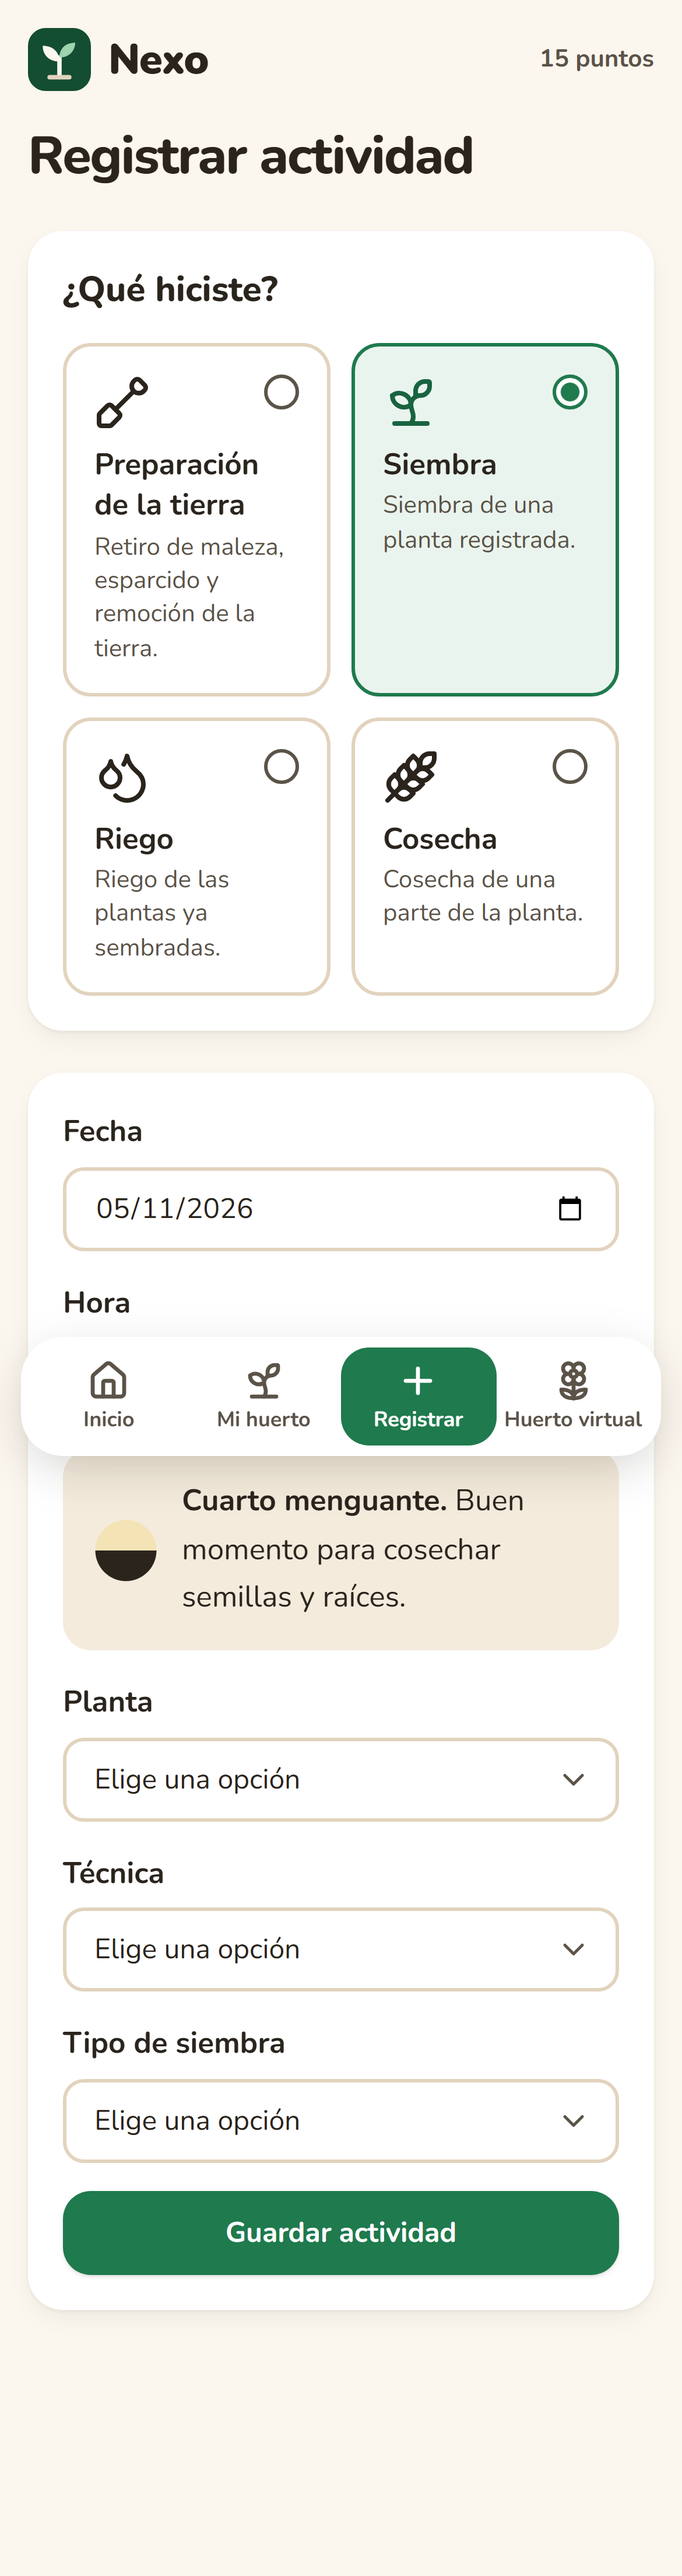
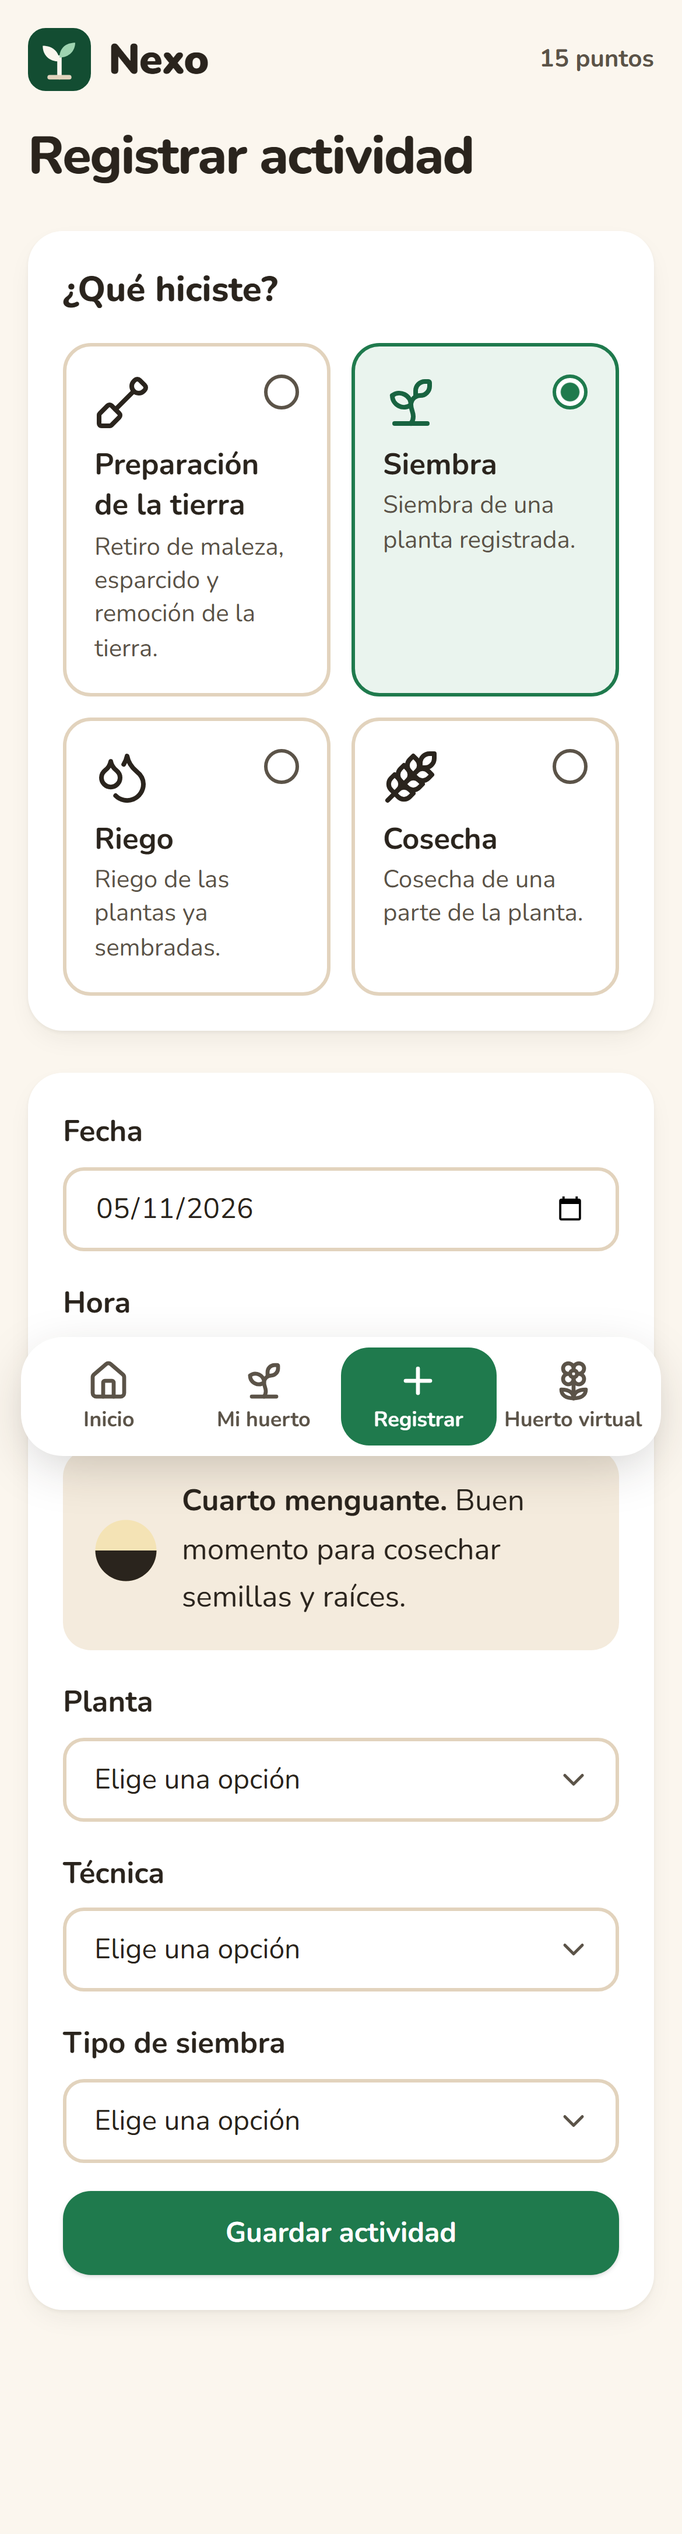
fix(frontend): muestra el cambio de etapa al brotar y agranda la línea del bono

diff --git a/apps/frontend/src/pages/HuertoVirtual.tsx b/apps/frontend/src/pages/HuertoVirtual.tsx
@@ -1,5 +1,5 @@
 import type { Etapa } from '@nexo/shared';
-import { useState } from 'react';
+import { useEffect, useState } from 'react';
 import { useLocation } from 'react-router';
 import { useDatos, type HuertoMio } from '../datos';
 import { useSesion } from '../sesion';
@@ -15,11 +15,18 @@ export function HuertoVirtual() {
   const { yo } = useSesion();
   // Firma: solo brota la planta recién trabajada, una vez. Se limpia el estado para que no se repita al volver.
   const loc = useLocation();
-  const [brota] = useState(() => {
-    const b = (loc.state as { brotar?: string } | null)?.brotar;
-    if (b) window.history.replaceState({ ...window.history.state, usr: null }, '');
-    return b;
+  const [{ brota, antes: antesInicial }] = useState(() => {
+    const st = loc.state as { brotar?: string; antes?: string } | null;
+    if (st?.brotar) window.history.replaceState({ ...window.history.state, usr: null }, '');
+    return { brota: st?.brotar, antes: st?.antes };
   });
+  // Se muestra un instante el dibujo de la etapa anterior y luego brota el nuevo.
+  const [antes, setAntes] = useState(antesInicial);
+  useEffect(() => {
+    if (!antes) return;
+    const t = setTimeout(() => setAntes(undefined), 600);
+    return () => clearTimeout(t);
+  }, [antes]);
   const mio = useDatos<HuertoMio>(yo?.comunidad ? '/huertos/mio' : null);
   const id = mio.datos?.huerto?.id;
   const v = useDatos<Virtual>(id ? `/huertos/${id}/virtual` : null);
@@ -51,12 +58,16 @@ export function HuertoVirtual() {
           <ul className="grid grid-cols-2 gap-3 sm:gap-4 lg:grid-cols-4">
             {v.datos.plantas.map((p) => (
               <li key={p.plantaId} className="flex flex-col items-center rounded-tarjeta bg-white p-3 text-center shadow-tarjeta">
-                <img
-                  key={p.etapa.recurso}
-                  src={`/etapas/${p.etapa.recurso}`}
-                  alt=""
-                  className={`aspect-square w-full max-w-36 ${brota === '*' || brota === p.plantaId ? 'brotar' : ''}`}
-                />
+                {antes && brota === p.plantaId ? (
+                  <img key="antes" src={`/etapas/${antes}`} alt="" className="aspect-square w-full max-w-36" />
+                ) : (
+                  <img
+                    key="ahora"
+                    src={`/etapas/${p.etapa.recurso}`}
+                    alt=""
+                    className={`aspect-square w-full max-w-36 ${brota === '*' || brota === p.plantaId ? 'brotar' : ''}`}
+                  />
+                )}
                 <p className="mt-2 font-bold">{p.nombreComun}</p>
                 <p className="text-sm text-luna-600">
                   Etapa {p.etapa.nivel}: {p.etapa.nombre}

diff --git a/apps/frontend/src/pages/ActividadNueva.tsx b/apps/frontend/src/pages/ActividadNueva.tsx
@@ -49,6 +49,10 @@ interface Respuesta {
 export function ActividadNueva() {
   const { yo, recargar: recargarSesion } = useSesion();
   const { datos, cargando } = useDatos<HuertoMio>(yo?.comunidad ? '/huertos/mio' : null);
+  // Dibujo de la etapa actual de cada planta, para que el huerto virtual muestre el cambio de etapa al guardar.
+  const virtual = useDatos<{ plantas: { plantaId: string; etapa: { recurso: string } }[] }>(
+    datos?.huerto ? `/huertos/${datos.huerto.id}/virtual` : null,
+  );
   const navegar = useNavigate();
   const toast = useToast();
   const { errores, setErrores, enviando, enviar, resumen } = useEnvio();
@@ -103,7 +107,8 @@ export function ActividadNueva() {
         : `Actividad guardada: +${total} puntos${r.puntos.bono ? ' (incluye bono por seguir la recomendación)' : ''}.`,
     );
     await recargarSesion();
-    navegar('/huerto/virtual', { state: { brotar: base.plantaId || '*' } });
+    const antes = virtual.datos?.plantas.find((p) => p.plantaId === base.plantaId)?.etapa.recurso;
+    navegar('/huerto/virtual', { state: { brotar: base.plantaId || '*', antes } });
   }
 
   function alEnviar(e: FormEvent) {

diff --git a/apps/frontend/src/pages/Inicio.tsx b/apps/frontend/src/pages/Inicio.tsx
@@ -41,7 +41,7 @@ export function Inicio() {
                 <Plus aria-hidden="true" className="size-5" strokeWidth={2.5} />
                 Registrar actividad
               </EnlaceBoton>
-              <p className="text-sm text-luna-600">Si sigues la recomendación de la luna, ganas 5 puntos extra.</p>
+              <p className="text-luna-600">Si sigues la recomendación de la luna, ganas 5 puntos extra.</p>
             </div>
           )}
         </Tarjeta>
